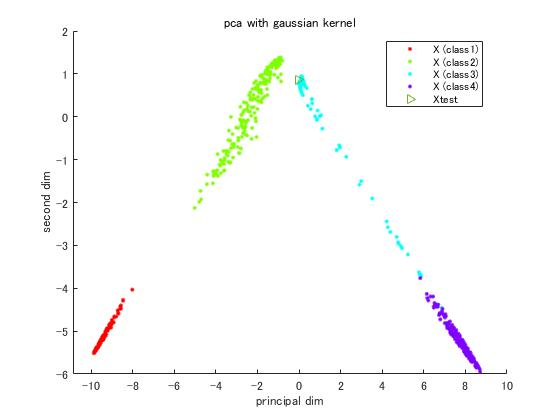
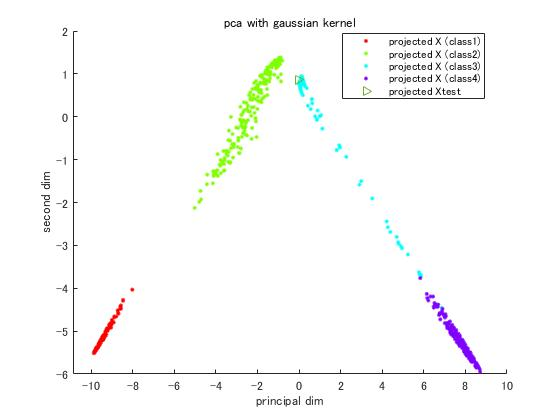
improved

Changed region(s): [[0.6375, 0.0619, 0.8804, 0.2476]]

diff --git a/demo.m b/demo.m
@@ -39,5 +39,5 @@ plot(projected_Xtest(:, 1), projected_Xtest(:, 2), 'LineStyle', 'none', 'Marker'
 title('pca with gaussian kernel')
 xlabel('principal dim')
 ylabel('second dim')
-legend(["X (class1)", "X (class2)", "X (class3)", "X (class4)", "Xtest"])
+legend(["projected X (class1)", "projected X (class2)", "projected X (class3)", "projected X (class4)", "projected Xtest"])
 
